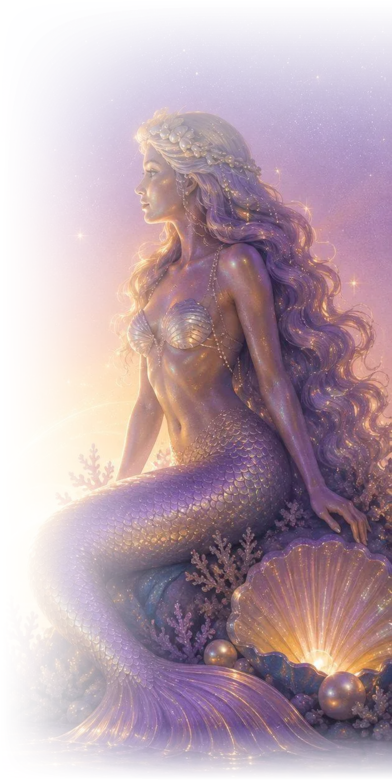
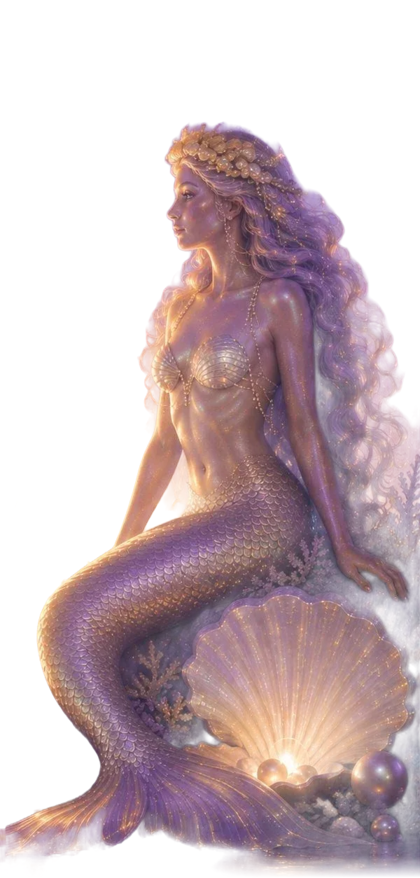
Imagem de presença confirmada (story/feed) no visual atual: pôr do sol, logotipo + 2K27 na concha, sereias recortadas, assinatura concha + @

diff --git a/src/app/pedido/[token]/story/route.tsx b/src/app/pedido/[token]/story/route.tsx
@@ -5,7 +5,8 @@ import { connection } from "next/server";
 import { db } from "@/lib/db";
 import { verifyOrderToken } from "@/lib/tokens";
 
-// "Presença confirmada" em formato de story (1080×1920), na identidade do flyer oficial 2027.
+// "Presença confirmada" em formato de story (1080×1920) e feed (1080×1350), no visual atual do site:
+// céu de pôr do sol da capa, logotipo oficial com o 2K27 na concha, sereias recortadas e a assinatura concha + @.
 // Só para pedido pago. Sem QR nem dados do ingresso: é para postar.
 
 const asset = (...p: string[]) => readFile(join(process.cwd(), "assets", ...p));
@@ -24,6 +25,8 @@ const load = () =>
       sereiaEsq: await dataUrl("sereia-esq.png", "image/png"),
       sereiaDir: await dataUrl("sereia-dir.png", "image/png"),
       mar: await dataUrl("mar.jpg", "image/jpeg"),
+      assinatura: await dataUrl("assinatura.png", "image/png"),
+      sol: await dataUrl("sol.png", "image/png"),
     },
   }))());
 
@@ -63,7 +66,7 @@ export async function GET(req: Request, ctx: { params: Promise<{ token: string }
           flexDirection: "column",
           alignItems: "center",
           position: "relative",
-          background: "linear-gradient(180deg, #1c1550 0%, #3b2a8f 18%, #6a4ecf 38%, #b98ae6 56%, #f2a8c7 70%, #ffc9a3 80%, #ffd9b0 84%)",
+          background: "linear-gradient(180deg, #1c1a5c 0%, #2c2380 14%, #4a2c8c 28%, #7c3a90 41%, #b44d8c 52%, #e2667a 61%, #f8845f 69%, #ffa45a 75%)",
           fontFamily: "Montserrat",
         }}
       >
@@ -85,7 +88,7 @@ export async function GET(req: Request, ctx: { params: Promise<{ token: string }
 
         {/* logotipo oficial + 2K27 (assets/story/logo.png) */}
         {/* eslint-disable-next-line @next/next/no-img-element, jsx-a11y/alt-text -- imagem dentro da ImageResponse */}
-        <img alt="" src={img.logo} width={feed ? 560 : 680} height={Math.round(((feed ? 560 : 680) * 578) / 900)} style={{ marginTop: 50 * k }} />
+        <img alt="" src={img.logo} width={feed ? 560 : 700} height={Math.round(((feed ? 560 : 700) * 576) / 900)} style={{ marginTop: 50 * k }} />
 
         {/* presença confirmada */}
         <div style={{ marginTop: 40 * k, display: "flex", fontFamily: "CormorantItalic", fontSize: feed ? 56 : 64, color: "#fff", textShadow: "0 2px 18px rgba(60,30,110,0.5)" }}>
@@ -106,32 +109,35 @@ export async function GET(req: Request, ctx: { params: Promise<{ token: string }
         >
           CONFIRMADA
         </div>
-        <div style={{ marginTop: 18, display: "flex", fontSize: 26, letterSpacing: 6, color: "#3a2a7a" }}>
+        <div style={{ marginTop: 18, display: "flex", fontSize: 26, letterSpacing: 6, color: "#fff3e2", textShadow: "0 2px 10px rgba(80,20,70,0.5)" }}>
           {n > 1 ? `${n} INGRESSOS GARANTIDOS` : "INGRESSO GARANTIDO"}
         </div>
 
         {/* data e local */}
         <div style={{ marginTop: 56 * k, display: "flex", alignItems: "center", gap: 28 }}>
-          <div style={{ width: 120, height: 2, background: "linear-gradient(90deg, transparent, #b47c2c)" }} />
-          <div style={{ display: "flex", fontFamily: "Cinzel", fontSize: 64, color: "#8a5c26", letterSpacing: 2 }}>{dmy}</div>
-          <div style={{ width: 120, height: 2, background: "linear-gradient(90deg, #b47c2c, transparent)" }} />
+          <div style={{ width: 120, height: 2, background: "linear-gradient(90deg, transparent, #ffe0a0)" }} />
+          <div style={{ display: "flex", fontFamily: "Cinzel", fontSize: 64, color: "#fff6e6", letterSpacing: 2, textShadow: "0 2px 14px rgba(90,20,60,0.55)" }}>{dmy}</div>
+          <div style={{ width: 120, height: 2, background: "linear-gradient(90deg, #ffe0a0, transparent)" }} />
         </div>
-        <div style={{ marginTop: 6, display: "flex", fontFamily: "Cinzel", fontSize: 44, color: "#8a5c26", letterSpacing: 4 }}>{order.event.venue.toUpperCase()}</div>
+        <div style={{ marginTop: 6, display: "flex", fontFamily: "Cinzel", fontSize: 44, color: "#fff6e6", letterSpacing: 4, textShadow: "0 2px 12px rgba(90,20,60,0.55)" }}>{order.event.venue.toUpperCase()}</div>
 
-        {/* mar e sereias */}
+        {/* sol se pondo no horizonte, atrás do mar (brilho pronto em PNG: o gerador não desenha bem radial com transparência) */}
         {/* eslint-disable-next-line @next/next/no-img-element, jsx-a11y/alt-text -- imagem dentro da ImageResponse */}
-        <img alt="" src={img.mar} width={1080} height={feed ? 260 : 420} style={{ position: "absolute", left: 0, bottom: 0, objectFit: "cover" }} />
-        {/* borda de cima do mar se dissolve no céu */}
-        <div style={{ position: "absolute", left: 0, right: 0, bottom: feed ? 170 : 300, height: feed ? 110 : 140, display: "flex", background: "linear-gradient(180deg, rgba(255,217,176,1), rgba(255,217,176,0))" }} />
+        <img alt="" src={img.sol} width={feed ? 700 : 900} height={feed ? 455 : 585} style={{ position: "absolute", left: feed ? 190 : 90, bottom: feed ? 60 : 130 }} />
+        {/* mar do pôr do sol (mesma arte da capa do site) */}
         {/* eslint-disable-next-line @next/next/no-img-element, jsx-a11y/alt-text -- imagem dentro da ImageResponse */}
-        <img alt="" src={img.sereiaEsq} height={feed ? 560 : 780} style={{ position: "absolute", left: feed ? -70 : -120, bottom: feed ? 110 : 230 }} />
+        <img alt="" src={img.mar} width={1080} height={feed ? 240 : 420} style={{ position: "absolute", left: 0, bottom: 0, objectFit: "cover", objectPosition: "50% 0%" }} />
         {/* eslint-disable-next-line @next/next/no-img-element, jsx-a11y/alt-text -- imagem dentro da ImageResponse */}
-        <img alt="" src={img.sereiaDir} height={feed ? 560 : 780} style={{ position: "absolute", right: feed ? -70 : -120, bottom: feed ? 110 : 230 }} />
+        <img alt="" src={img.sereiaEsq} width={feed ? 290 : 400} height={feed ? 606 : 836} style={{ position: "absolute", left: feed ? -60 : -60, bottom: feed ? -10 : 80 }} />
+        {/* eslint-disable-next-line @next/next/no-img-element, jsx-a11y/alt-text -- imagem dentro da ImageResponse */}
+        <img alt="" src={img.sereiaDir} width={feed ? 290 : 400} height={feed ? 606 : 836} style={{ position: "absolute", right: feed ? -60 : -60, bottom: feed ? -10 : 80 }} />
 
         {/* rodapé */}
         <div style={{ position: "absolute", bottom: feed ? 60 : 96, left: 0, right: 0, display: "flex", flexDirection: "column", alignItems: "center", color: "#fff" }}>
           <div style={{ display: "flex", fontFamily: "CormorantItalic", fontSize: 50, textShadow: "0 2px 6px rgba(40,20,90,0.85), 0 2px 22px rgba(40,20,90,0.9)" }}>Te vejo na virada</div>
-          <div style={{ marginTop: 14, display: "flex", fontSize: 28, letterSpacing: 6, textShadow: "0 2px 6px rgba(40,20,90,0.85), 0 2px 18px rgba(40,20,90,0.9)" }}>@PEROLASEVENTOS</div>
+          {/* assinatura do kit: concha Pérolas + @perolaseventos */}
+          {/* eslint-disable-next-line @next/next/no-img-element, jsx-a11y/alt-text -- imagem dentro da ImageResponse */}
+          <img alt="" src={img.assinatura} width={420} height={72} style={{ marginTop: 16 }} />
         </div>
       </div>
     ),
